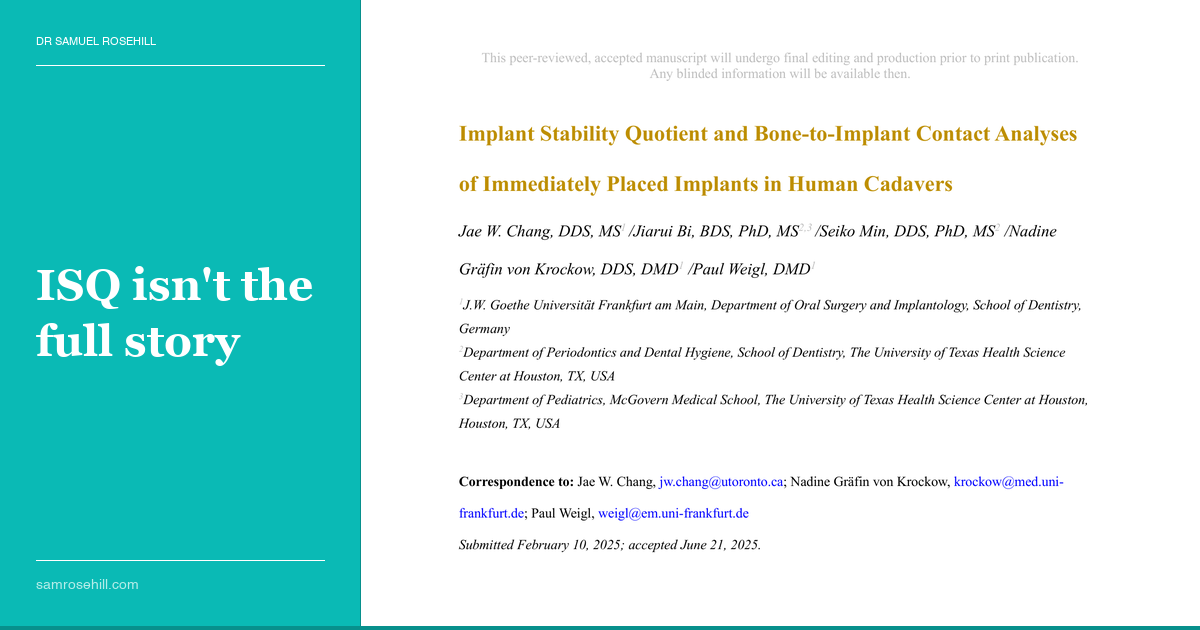
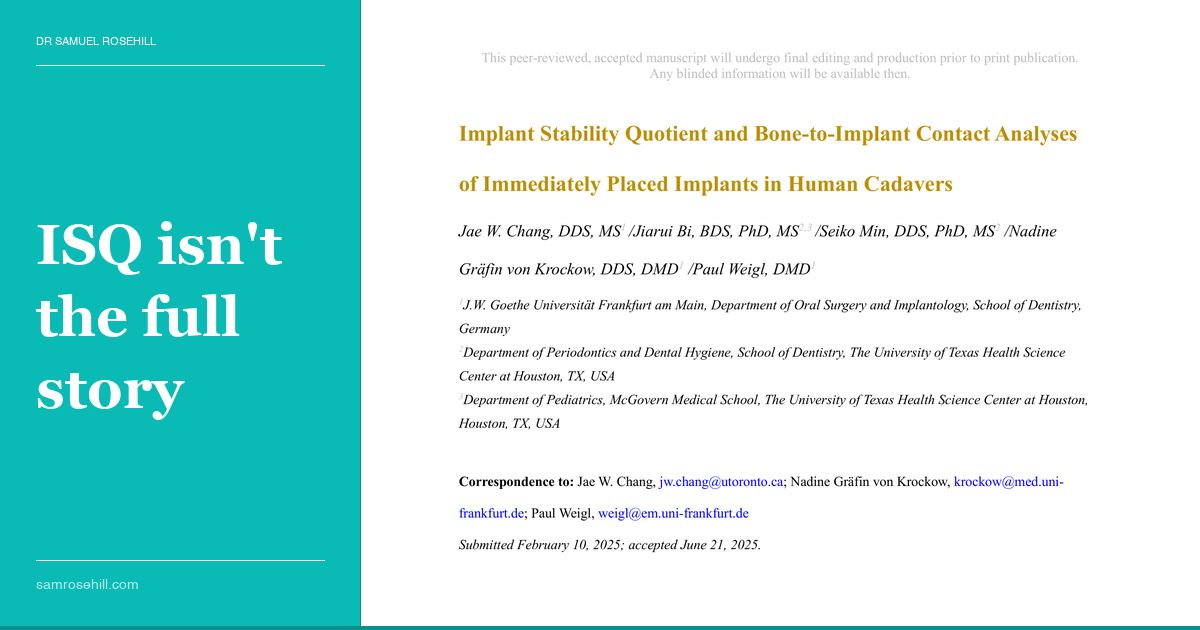
fix: dynamic font sizing for verdict text on thumbnail strip
Scale verdict font size to fill the branding strip width consistently.
Short verdicts get larger text, longer ones scale down. All text is
vertically centered between the divider and bottom branding.

Changed region(s): [[0.0308, 0.3317, 0.2775, 0.573], [0.0308, 0.6032, 0.1542, 0.6635]]

diff --git a/scripts/generate-thumbnail.py b/scripts/generate-thumbnail.py
@@ -178,44 +178,70 @@ def generate_thumbnail(slug: str, pdf_path_override: str = "") -> str:
     # Thin divider
     draw.line([(36, 65), (strip_width - 36, 65)], fill=(255, 255, 255, 60), width=1)
 
-    # One-line verdict — large, bold, vertically centered
+    # One-line verdict — dynamically sized to fill the strip width
     verdict = fm.get("verdict", "")
     padding_x = 36
     max_text_width = strip_width - (padding_x * 2)
 
-    font_verdict = try_load_font([
+    # Find the optimal font size: try sizes from large to small,
+    # pick the largest where all wrapped lines fit within max_text_width
+    font_paths = [
         "/System/Library/Fonts/Supplemental/Georgia Bold.ttf",
         "/System/Library/Fonts/Supplemental/Georgia.ttf",
-    ], 44)
-    font_verdict_small = try_load_font([
-        "/System/Library/Fonts/Supplemental/Georgia Bold.ttf",
-        "/System/Library/Fonts/Supplemental/Georgia.ttf",
-    ], 36)
+    ]
 
-    # Wrap — at 44px Georgia Bold, ~8 chars per line in 308px
-    chars_per_line = int(max_text_width / 20)
-    wrapped = textwrap.wrap(verdict, width=chars_per_line)
+    best_font_size = 28  # minimum
+    best_wrapped = [verdict]
+    best_font = None
 
-    if len(wrapped) > 5:
-        font_used = font_verdict_small
-        chars_per_line = int(max_text_width / 16)
-        wrapped = textwrap.wrap(verdict, width=chars_per_line)
-        line_height = 46
-    else:
-        font_used = font_verdict
-        line_height = 56
+    for size in range(56, 26, -2):
+        test_font = try_load_font(font_paths, size)
+        # Wrap by measuring actual pixel width
+        words = verdict.split()
+        lines = []
+        current = ""
+        for word in words:
+            test_line = f"{current} {word}".strip()
+            bbox = draw.textbbox((0, 0), test_line, font=test_font)
+            if bbox[2] - bbox[0] > max_text_width and current:
+                lines.append(current)
+                current = word
+            else:
+                current = test_line
+        if current:
+            lines.append(current)
 
-    # Vertically center
-    text_block_height = len(wrapped) * line_height
-    available_height = HEIGHT - 160
-    text_start_y = 80 + (available_height - text_block_height) // 2
+        # Check all lines fit and we don't have too many lines
+        all_fit = all(
+            (draw.textbbox((0, 0), line, font=test_font)[2] -
+             draw.textbbox((0, 0), line, font=test_font)[0]) <= max_text_width
+            for line in lines
+        )
+        max_lines = 4 if size >= 40 else 5
+        if all_fit and len(lines) <= max_lines:
+            best_font_size = size
+            best_wrapped = lines
+            best_font = test_font
+            break
 
-    for i, line in enumerate(wrapped):
+    if best_font is None:
+        best_font = try_load_font(font_paths, best_font_size)
+
+    line_height = int(best_font_size * 1.3)
+
+    # Vertically center the text block between the divider and bottom branding
+    text_block_height = len(best_wrapped) * line_height
+    top_zone = 80       # below the divider
+    bottom_zone = 70    # above bottom branding
+    available_height = HEIGHT - top_zone - bottom_zone
+    text_start_y = top_zone + (available_height - text_block_height) // 2
+
+    for i, line in enumerate(best_wrapped):
         draw.text(
             (padding_x, text_start_y + i * line_height),
             line,
             fill=ON_PRIMARY,
-            font=font_used,
+            font=best_font,
         )
 
     # Bottom branding: samrosehill.com
